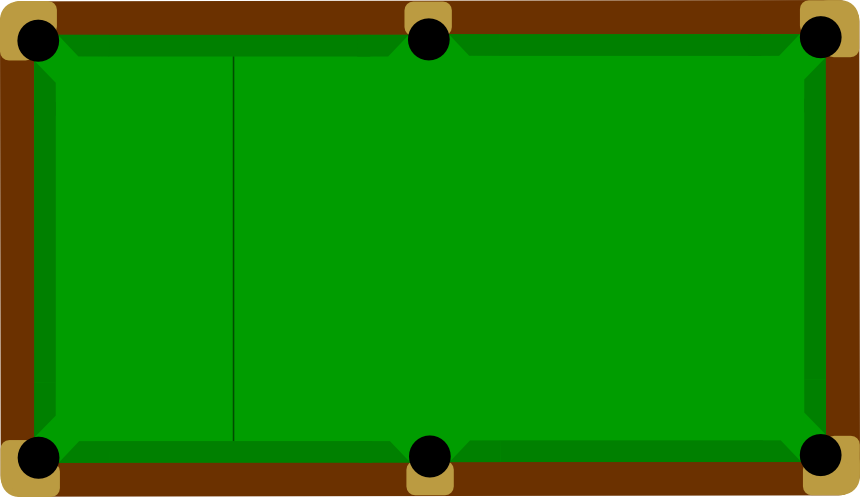
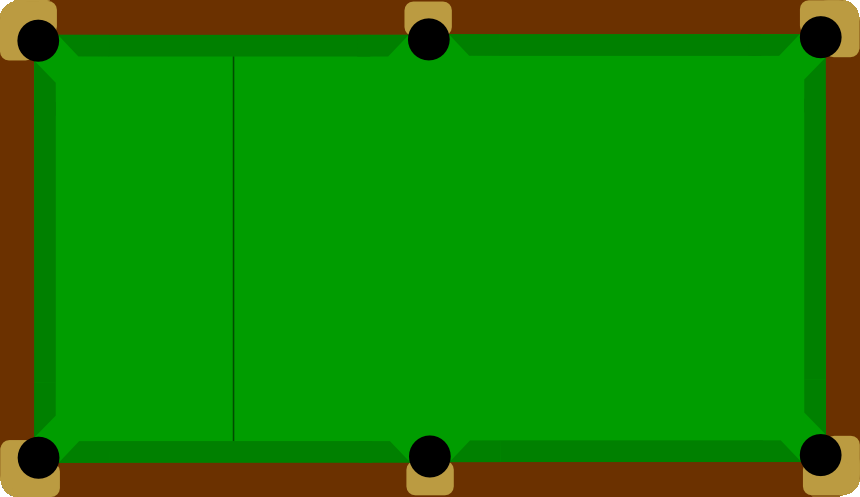
git-svn-id: http://deditus.de/svn/dsarepo42@485 0c20435e-6aac-11dd-8100-c6319ae65bfc

diff --git a/projekte/Billiards/src/main/java/de/schelklingen2008/billiards/model/Wall.java b/projekte/Billiards/src/main/java/de/schelklingen2008/billiards/model/Wall.java
@@ -11,6 +11,7 @@ public class Wall
 
     public Wall(Vector2d p1, Vector2d p2)
     {
+
         Vector2d v = p1.subtract(p2);
         angle = v.getAngle();
         if (angle > Math.PI)
@@ -66,24 +67,27 @@ public class Wall
 
             double deltaY = yIntercept + slope * x0 - y0;
 
-            double deltaAngle = ball.getVelocity().getAngle() - angle;
+            double xCollision, yCollision;
 
-            if (deltaY < 0)
+            if (ball.getVelocity().getX() == 0)
             {
-                if (deltaAngle <= 0 || deltaAngle >= Math.PI)
+                xCollision = x0;
+                yCollision = deltaY + y0;
+                if (Math.signum(deltaY) != Math.signum(ball.getVelocity().getY()))
                 {
                     return Double.NaN;
                 }
             }
             else
             {
-                if (deltaAngle >= 0 && deltaAngle <= Math.PI)
+                double vSlope = ball.getVelocity().getY() / ball.getVelocity().getX();
+                xCollision = (x0 * vSlope - y0 + yIntercept) / (vSlope - slope);
+                yCollision = xCollision * slope + yIntercept;
+                if (Math.signum(xCollision - x0) != Math.signum(ball.getVelocity().getX()))
                 {
                     return Double.NaN;
                 }
             }
-
-            deltaY = Math.abs(deltaY);
 
             double perpendicularAngle = angle + Math.PI / 2;
             if (perpendicularAngle > Math.PI)
@@ -93,7 +97,7 @@ public class Wall
 
             double alpha = Math.abs(perpendicularAngle - ball.getVelocity().getAngle());
 
-            double perpendicularDist = Math.abs(Math.cos(perpendicularAngle - Math.PI / 2) * deltaY);
+            double perpendicularDist = Math.abs(Math.cos(perpendicularAngle - Math.PI / 2) * Math.abs(deltaY));
             double dist = Math.abs((perpendicularDist - BALL_RADIUS) / Math.cos(alpha));
 
             double t = dist / ball.getVelocity().getLength();
@@ -105,7 +109,16 @@ public class Wall
                 return Double.NaN;
             }
 
-            collisionPos = collisionPos.add(Vector2d.getPolarVector(angle + Math.PI / 2, GlobalConstants.BALL_RADIUS));
+            if (deltaY > 0)
+            {
+                collisionPos =
+                    collisionPos.add(Vector2d.getPolarVector(perpendicularAngle + Math.PI, GlobalConstants.BALL_RADIUS));
+            }
+            else
+            {
+                collisionPos =
+                    collisionPos.add(Vector2d.getPolarVector(perpendicularAngle, GlobalConstants.BALL_RADIUS));
+            }
 
             if (collisionPos.getX() < minX || collisionPos.getX() > maxX || collisionPos.getY() < minY
                 || collisionPos.getY() > maxY)
@@ -139,7 +152,7 @@ public class Wall
 
         if (!Double.isNaN(t))
         {
-            double y = ball.getPosition().getY() - ball.getVelocity().getY() * t;
+            double y = ball.getPosition().getY() + ball.getVelocity().getY() * t;
             if (y < minY || y > maxY)
             {
                 t = Double.NaN;
@@ -173,7 +186,7 @@ public class Wall
 
         if (!Double.isNaN(t))
         {
-            double x = ball.getPosition().getX() - ball.getVelocity().getX() * t;
+            double x = ball.getPosition().getX() + ball.getVelocity().getX() * t;
             if (x < minX || x > maxX)
             {
                 t = Double.NaN;

diff --git a/projekte/Billiards/src/main/java/de/schelklingen2008/billiards/model/GameModel.java b/projekte/Billiards/src/main/java/de/schelklingen2008/billiards/model/GameModel.java
@@ -10,7 +10,6 @@ import java.util.Collections;
 import java.util.List;
 import java.util.PriorityQueue;
 
-import de.schelklingen2008.billiards.GlobalConstants;
 import de.schelklingen2008.billiards.model.Ball.BallType;
 import de.schelklingen2008.billiards.util.Vector2d;
 
@@ -73,12 +72,35 @@ public class GameModel
 
     private void addWalls()
     {
-        walls.add(new Wall(new Vector2d(0, 0), new Vector2d(GlobalConstants.MAX_X, 0)));
-        walls.add(new Wall(new Vector2d(0, GlobalConstants.MAX_Y), new Vector2d(GlobalConstants.MAX_X,
-                                                                                GlobalConstants.MAX_Y)));
-        walls.add(new Wall(new Vector2d(0, 0), new Vector2d(0, GlobalConstants.MAX_Y)));
-        walls.add(new Wall(new Vector2d(GlobalConstants.MAX_X, 0), new Vector2d(GlobalConstants.MAX_X,
-                                                                                GlobalConstants.MAX_Y)));
+
+        walls.add(new Wall(new Vector2d(0, 28), new Vector2d(21, 48)));
+        walls.add(new Wall(new Vector2d(21, 48), new Vector2d(21, 382)));
+        walls.add(new Wall(new Vector2d(21, 382), new Vector2d(0, 402)));
+
+        walls.add(new Wall(new Vector2d(MAX_X, 28), new Vector2d(MAX_X - 21, 48)));
+        walls.add(new Wall(new Vector2d(MAX_X - 21, 48), new Vector2d(MAX_X - 21, 382)));
+        walls.add(new Wall(new Vector2d(MAX_X - 21, 382), new Vector2d(MAX_X, 402)));
+
+        walls.add(new Wall(new Vector2d(25, 0), new Vector2d(43, 21)));
+        walls.add(new Wall(new Vector2d(43, 21), new Vector2d(354, 21)));
+        walls.add(new Wall(new Vector2d(354, 21), new Vector2d(373, 0)));
+
+        walls.add(new Wall(new Vector2d(25, MAX_Y), new Vector2d(43, MAX_Y - 21)));
+        walls.add(new Wall(new Vector2d(43, MAX_Y - 21), new Vector2d(354, MAX_Y - 21)));
+        walls.add(new Wall(new Vector2d(354, MAX_Y - 21), new Vector2d(373, MAX_Y)));
+
+        walls.add(new Wall(new Vector2d(416, 0), new Vector2d(434, 21)));
+        walls.add(new Wall(new Vector2d(434, 21), new Vector2d(745, 21)));
+        walls.add(new Wall(new Vector2d(745, 21), new Vector2d(765, 0)));
+
+        walls.add(new Wall(new Vector2d(416, MAX_Y), new Vector2d(434, MAX_Y - 21)));
+        walls.add(new Wall(new Vector2d(434, MAX_Y - 21), new Vector2d(745, MAX_Y - 21)));
+        walls.add(new Wall(new Vector2d(745, MAX_Y - 21), new Vector2d(765, MAX_Y)));
+    }
+
+    public List<Wall> getWalls()
+    {
+        return walls;
     }
 
     public GameModel()
@@ -87,8 +109,6 @@ public class GameModel
         addPlayers();
         addBalls();
         addWalls();
-
-        walls.add(new Wall(new Vector2d(0, 200), new Vector2d(200, 0)));
 
         setUpGame();
 

diff --git a/projekte/Billiards/src/main/java/de/schelklingen2008/billiards/GlobalConstants.java b/projekte/Billiards/src/main/java/de/schelklingen2008/billiards/GlobalConstants.java
@@ -6,15 +6,15 @@ public final class GlobalConstants
     public static final int PLAYERS = 2;
     public static final double BALL_RADIUS = 9;
     public static final double STRIPE_HEIGHT = 0.75 * 2 * BALL_RADIUS;
-    public static final double MAX_X = 800;
-    public static final double MAX_Y = 400;
+    public static final double MAX_X = 792;
+    public static final double MAX_Y = 427;
 
     public static final double FRICTION_FACTOR = 200d;
     public static final double COLLISION_IMPULSE_LOSS = 0.01d;
 
-    public static final String BG_IMAGE_FILENAME = "src/main/resources/images/board.png";
+    public static final String BG_IMAGE_FILENAME = "src/main/resources/images/billiardtable.png";
 
-    public static final int BORDER_WIDTH = 30;
-    public static final int BORDER_HEIGHT = 30;
+    public static final int BORDER_WIDTH = 34;
+    public static final int BORDER_HEIGHT = 34;
 
 }

diff --git a/projekte/Billiards/src/main/java/de/schelklingen2008/billiards/client/view/BoardView.java b/projekte/Billiards/src/main/java/de/schelklingen2008/billiards/client/view/BoardView.java
@@ -110,7 +110,7 @@ public class BoardView extends JPanel implements GameChangeListener
     public Dimension getPreferredSize()
     {
         // TODO calculate correct dimensions for the board view
-        return new Dimension(860, 460);
+        return new Dimension(860, 497);
     }
 
     @Override
@@ -130,9 +130,6 @@ public class BoardView extends JPanel implements GameChangeListener
 
     private void paintBoard(Graphics2D gfx)
     {
-
-        gfx.setColor(Color.BLACK);
-        gfx.drawLine(30, 230, 230, 30);
 
         GameModel gameModel = getGameModel();
 
